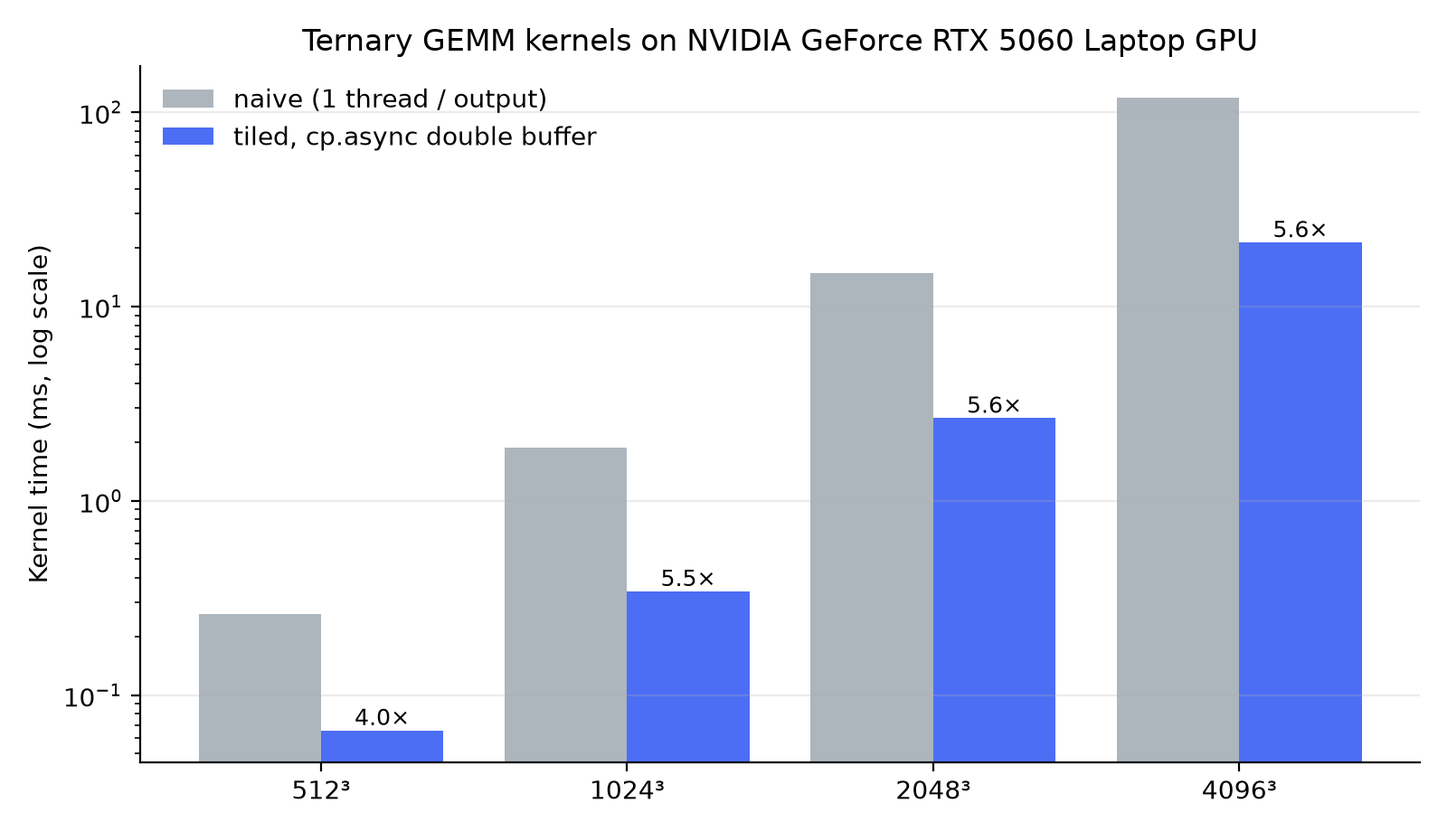
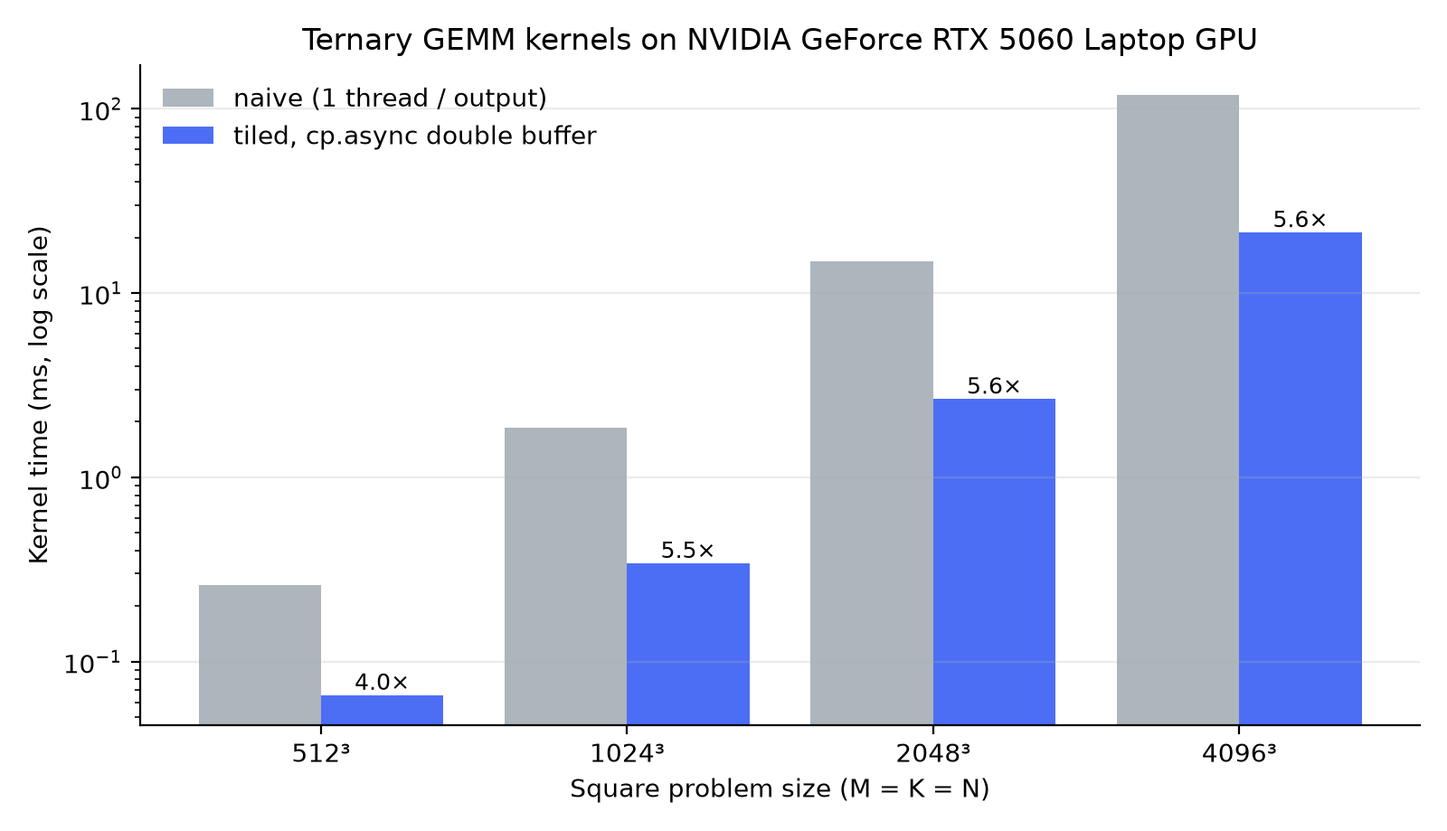
docs: refresh README structure and regenerate benchmark charts

diff --git a/scripts/plot_results.py b/scripts/plot_results.py
@@ -64,7 +64,8 @@ def plot_cpu(table, out_png):
     ax.set_xlabel("Square problem size (M = K = N)")
     ax.set_ylabel("Effective throughput (G ternary-MAC ops/s, 2 ops per MAC)")
     ax.set_title("Ternary GEMM on one CPU thread (int8 activations, 2-bit weights)")
-    ax.legend(frameon=False, fontsize=8)
+    ax.set_ylim(0, ax.get_ylim()[1] * 1.3)
+    ax.legend(frameon=False, fontsize=8, loc="upper left", ncol=2)
     ax.grid(axis="y", alpha=0.25)
     ax.spines[["top", "right"]].set_visible(False)
     fig.tight_layout()
@@ -84,6 +85,7 @@ def plot_gpu(gpu, out_png):
     ax.set_yscale("log")
     ax.set_xticks(list(xs))
     ax.set_xticklabels([f"{n}³" for n in ns])
+    ax.set_xlabel("Square problem size (M = K = N)")
     ax.set_ylabel("Kernel time (ms, log scale)")
     ax.set_title(f"Ternary GEMM kernels on {gpu['device']}")
     ax.legend(frameon=False)

diff --git a/README.md b/README.md
@@ -1,6 +1,6 @@
 # TernixEngine
 **A SIMD-native kernel library for 1.58-bit (ternary) LLM inference: AVX2 on CPU, `cp.async`-pipelined CUDA on GPU**
-*Distributed under the Elastic License 2.0 (see [License](#13-license)).*
+*Distributed under the Elastic License 2.0 (see [License](#15-license)).*
 
 ![C++20](https://img.shields.io/badge/C%2B%2B-20-blue) ![CUDA](https://img.shields.io/badge/CUDA-sm__80%2B-green) ![AVX2](https://img.shields.io/badge/SIMD-AVX2-orange) ![Python](https://img.shields.io/badge/Python-PyBind11-yellow)
 
@@ -13,37 +13,44 @@ The kernels in this repository answer that question in three ways:
 * **No weight-dependent control flow.** The ternary value is turned into a sign control and applied with `_mm256_sign_epi32` (CPU) or with arithmetic selects (GPU), so inner loops contain no `if (w == 0)` branches and do not diverge.
 * **Bit-exact verification.** Every kernel is checked against an independent integer GEMM on the unpacked weights, from C++ (GoogleTest), from Python (NumPy) and GPU-versus-CPU, over ragged shapes and worst-case values.
 
-> **Status: active research and development.** This is a *kernel library*, not yet an end-to-end LLM runtime. The weight quantizer (`scripts/quantize.py`), the model loader and the transformer block are stubs; there is no tokenizer path and no tokens-per-second figure. [Section 10](#10-current-project-status) states precisely what works and what does not. Performance numbers are measured against in-repo baselines only; the library has not yet been compared head-to-head with other ternary engines such as bitnet.cpp or T-MAC ([Section 11](#11-limitations-and-future-work)).
+> [!NOTE]
+> **Status: active research and development.** This is a *kernel library*, not yet an end-to-end LLM runtime. The weight quantizer (`scripts/quantize.py`), the model loader and the transformer block are stubs; there is no tokenizer path and no tokens-per-second figure. [Section 10](#10-implementation-status) states precisely what works and what does not. Performance numbers are measured against in-repo baselines only; the library has not yet been compared head-to-head with other ternary engines such as bitnet.cpp or T-MAC ([Section 11](#11-limitations-and-research-roadmap)).
 
 ## Table of Contents
-1. [The Bottleneck: the De-Quantization Wall and Warp Divergence](#1-the-bottleneck-the-de-quantization-wall-and-warp-divergence)
-2. [Architectural Methodology](#2-architectural-methodology)
-3. [Conceptual Overview](#3-conceptual-overview)
-4. [System Architecture](#4-system-architecture)
-5. [Directory Structure](#5-directory-structure)
-6. [Technology Stack](#6-technology-stack)
-7. [DevOps and Testing](#7-devops-and-testing)
-8. [Environment Setup and Execution](#8-environment-setup-and-execution)
-9. [Empirical Benchmarks and Evaluation](#9-empirical-benchmarks-and-evaluation)
-10. [Current Project Status](#10-current-project-status)
-11. [Limitations and Future Work](#11-limitations-and-future-work)
-12. [Troubleshooting](#12-troubleshooting)
-13. [License](#13-license)
-14. [Project Referencing Guide](#14-project-referencing-guide)
-15. [Support and Maintenance](#15-support-and-maintenance)
-16. [Contribution Policy](#16-contribution-policy)
 
-## 1. The Bottleneck: the De-Quantization Wall and Warp Divergence
+1. [Problem Statement: The De-Quantization Wall and Warp Divergence](#1-problem-statement-the-de-quantization-wall-and-warp-divergence)
+2. [Ternary Inference in Plain Terms](#2-ternary-inference-in-plain-terms)
+3. [Kernel Design and Methodology](#3-kernel-design-and-methodology)
+4. [Software Architecture and Data Flow](#4-software-architecture-and-data-flow)
+5. [Repository Layout](#5-repository-layout)
+6. [Technology Stack](#6-technology-stack)
+7. [Build, Run and Python Usage](#7-build-run-and-python-usage)
+8. [Testing, Continuous Integration and Build Automation](#8-testing-continuous-integration-and-build-automation)
+9. [Performance Evaluation](#9-performance-evaluation)
+10. [Implementation Status](#10-implementation-status)
+11. [Limitations and Research Roadmap](#11-limitations-and-research-roadmap)
+12. [Troubleshooting](#12-troubleshooting)
+13. [Support and Maintenance](#13-support-and-maintenance)
+14. [Contributing](#14-contributing)
+15. [License](#15-license)
+16. [Citation](#16-citation)
+
+## 1. Problem Statement: The De-Quantization Wall and Warp Divergence
 Engines that execute sub-byte quantized LLMs commonly run into three hardware-level problems, and ternary weights make each of them easy to trigger.
 
 1. **The de-quantization wall.** The straightforward implementation expands 2-bit weights into int8 or FP16 arrays before the GEMM loop. The expanded array is 4x to 8x larger than the packed one, so the loop re-reads far more data than the compression saved, saturates L1 bandwidth and leaves the arithmetic units idle. Compression only pays off if the weights stay packed until the moment they are consumed.
 2. **Sparse-branch misprediction.** Ternary matrices contain many zeros, and the natural way to exploit that is `if (w == 0) continue;`. The pattern of zeros is data-dependent and effectively random, so the branch predictor fails, the pipeline flushes, and the cost of the mispredictions can exceed the arithmetic that was skipped. Zero must be handled arithmetically (multiply by a sign mask), not by control flow.
 3. **GPU transaction and divergence problems.** Reading sub-byte values directly from global memory produces unaligned, narrow loads that break coalescing; lanes that branch on their own weight diverge within a warp. Both lower SM utilisation. The fix is to move whole tiles with wide, aligned, asynchronous copies and decode only after the data is on-chip.
 
-## 2. Architectural Methodology
-The design draws on four lines of work on low-bit LLM inference (BitNet / BitNet b1.58, T-MAC, QuIP#, MARLIN; the papers are kept under `references/`, and `docs/RESEARCH_SYNTHESIS.md` records what was taken from each). What follows describes what is *implemented*; ideas from those papers that are not yet implemented are listed in [Section 11](#11-limitations-and-future-work).
+## 2. Ternary Inference in Plain Terms
+*For readers who are not kernel engineers.* A neural network is mostly a very large number of multiplications between numbers it has learned (weights) and numbers flowing through it (activations). "Ternary" models are trained so that every weight is only -1, 0 or +1. The multiplication then reduces to "add this number, subtract it, or ignore it", which is far cheaper than a floating-point multiply and needs about an eighth of the memory for the weights. For language-model inference the memory traffic is usually the limiting factor, so this matters: a model that is small and cheap to run can fit on a laptop CPU or a modest GPU.
 
-### 2.1 Weight format
+The catch is that standard hardware and standard software are built for multiplication of wider numbers, and the obvious way to run a ternary model (convert it back to wider numbers) erases the savings. TernixEngine is a set of low-level routines that keep the data in its small packed form until the instant it is used, and that avoid the branching logic that modern processors handle badly. It is currently a verified, benchmarked set of building blocks; turning them into a complete model runner is the next stage of the project.
+
+## 3. Kernel Design and Methodology
+The design draws on four lines of work on low-bit LLM inference (BitNet / BitNet b1.58, T-MAC, QuIP#, MARLIN; the papers are kept under `references/`, and `docs/RESEARCH_SYNTHESIS.md` records what was taken from each). What follows describes what is *implemented*; ideas from those papers that are not yet implemented are listed in [Section 11](#11-limitations-and-research-roadmap).
+
+### 3.1 Weight format
 All kernels compute `C[M,N] (int32) = A[M,K] (int8) x W[K,N]`, where `W` is ternary. Weights are packed four per byte, little-endian along N, into a row-major `K x (N/4)` byte array. Each weight occupies a two-bit field:
 
 | bits | `00` | `01` | `11` |
@@ -52,32 +59,29 @@ All kernels compute `C[M,N] (int32) = A[M,K] (int8) x W[K,N]`, where `W` is tern
 
 `10` is never produced by the packer (`pack_ternary_weights`) and is outside the supported domain. The encoding is chosen so that the value is recovered by *sign-extending the two-bit field* (`11` sign-extends to -1, `01` stays +1), which is a shift-left/arithmetic-shift-right pair rather than a table lookup or a compare. The same layout feeds every CPU and GPU kernel, which is what makes cross-checking them against each other meaningful. `bitpack.cpp` provides pack/unpack and the round trip is tested.
 
-### 2.2 CPU kernels (AVX2)
+### 3.2 CPU kernels (AVX2)
 * **Reference and baselines.** `mul_mat_ternary_naive` is the textbook i-j-k loop with a branching decode; it walks down a column of `W` and is deliberately cache-hostile. `mul_mat_ternary_scalar` is the fair scalar baseline: i-k-j order and a branch-free decode, `w = (b & 1) - (b & 2)`. Speed-ups are quoted against the scalar kernel as well as the naive one.
 * **In-register decode (`mul_mat_ternary_avx2`).** For each activation scalar `a[i,k]`, the packed weight byte(s) covering eight output columns are broadcast into a 256-bit register. `_mm256_srlv_epi32` with the per-lane shift vector (0, 2, ..., 14) moves a different weight into the low bits of each 32-bit lane, `_mm256_and_si256` masks the field, and `slli`/`srai` by 30 sign-extends it into a lane value of -1, 0 or +1. `_mm256_sign_epi32(a_broadcast, w)` then yields `-a`, `0` or `+a` in one instruction, with no branch and no multiply, and `_mm256_add_epi32` accumulates. The loop nest is M, K, N with N tiled by eight, so the eight int32 accumulators stay in one register for the whole K loop.
 * **Register blocking (`mul_mat_ternary_avx2_blocked`).** Decoding the weights is as expensive as using them, so the blocked variant processes four activation rows per pass: each decoded weight vector is applied to four accumulators before the next weight is loaded, amortising the decode cost by 4x. Rows that do not fill a block fall through to the one-row kernel.
 * **Auxiliary operators.** `rms_norm_avx2` is a real AVX2+FMA implementation (tested against the scalar version for sizes that are not multiples of eight); `swiglu` is scalar.
 * **Safety properties.** Loads use `memcpy` (no unaligned-access UB); int32 accumulation cannot overflow for int8 activations with K up to a stated bound (a K = 4096 worst-case test covers it).
 
-### 2.3 GPU kernels (CUDA)
+### 3.3 GPU kernels (CUDA)
 * **Baseline (`mul_mat_ternary_cuda_naive`).** One thread per output element, straight from global memory. It exists to give the optimised kernel something honest to be measured against.
 * **Tiled kernel (`mul_mat_ternary_cuda_tiled`).** The tile is 64x64x64 with 256 threads (a 16x16 arrangement), and each thread owns a 4x4 micro-tile of outputs, so one packed weight byte covers exactly the four columns a thread computes. Tiles are moved global-to-shared with `cp.async.cg` in 16-byte copies through a **two-stage pipeline**: while the threads do arithmetic on tile *t*, the copies for tile *t+1* are already in flight, and `cp.async.wait_group 1` blocks only on the older group. The int8 activation tile uses a padded row pitch (80 bytes instead of 64) so that the threads of a warp reading different rows do not hit the same shared-memory bank. The kernel requires M, N and K to be multiples of 64 and validates the shapes on the host.
 * **Hardware requirement.** `cp.async` needs compute capability 8.0 or newer; the build defaults to the native architecture and falls back to sm_80.
 
-### 2.4 Correctness model
+### 3.4 Correctness model
 The unit of truth is a deliberately simple integer GEMM on the *unpacked* int8 weights, written independently of every kernel. All kernels, CPU and GPU, must match it exactly (integer arithmetic, so equality, not a tolerance), including ragged shapes, rows that do not fill a block, and int8-extreme inputs that would expose accumulator overflow.
 
-## 3. Conceptual Overview
-*For readers who are not kernel engineers.* A neural network is mostly a very large number of multiplications between numbers it has learned (weights) and numbers flowing through it (activations). "Ternary" models are trained so that every weight is only -1, 0 or +1. The multiplication then reduces to "add this number, subtract it, or ignore it", which is far cheaper than a floating-point multiply and needs about an eighth of the memory for the weights. For language-model inference the memory traffic is usually the limiting factor, so this matters: a model that is small and cheap to run can fit on a laptop CPU or a modest GPU.
+## 4. Software Architecture and Data Flow
+<div align="center">
+  <img src="docs/assets/ternix-architecture.png" alt="TernixEngine architecture: Python and C++ entry points, shared packed-weight layout, CPU AVX2 and CUDA kernels, test and benchmark harnesses" width="100%" />
+</div>
 
-The catch is that standard hardware and standard software are built for multiplication of wider numbers, and the obvious way to run a ternary model (convert it back to wider numbers) erases the savings. TernixEngine is a set of low-level routines that keep the data in its small packed form until the instant it is used, and that avoid the branching logic that modern processors handle badly. It is currently a verified, benchmarked set of building blocks; turning them into a complete model runner is the next stage of the project.
+The Python module `ternix_engine` (PyBind11) packs NumPy weights and dispatches to any CPU or CUDA kernel by name; the C++ core exposes the same kernels to the GoogleTest suites and to the Google Benchmark and CUDA-event benchmark harnesses. All paths use the single weight layout described in [Section 3.1](#31-weight-format), so a result produced by one kernel can be reproduced by any other. `Model` and `TransformerLayer` are placeholders for the future end-to-end path and are not exercised by any test or benchmark.
 
-## 4. System Architecture
-![TernixEngine architecture](docs/assets/ternix-architecture.png)
-
-The Python module `ternix_engine` (PyBind11) packs NumPy weights and dispatches to any CPU or CUDA kernel by name; the C++ core exposes the same kernels to the GoogleTest suites and to the Google Benchmark and CUDA-event benchmark harnesses. All paths use the single weight layout described in [Section 2.1](#21-weight-format), so a result produced by one kernel can be reproduced by any other. `Model` and `TransformerLayer` are placeholders for the future end-to-end path and are not exercised by any test or benchmark.
-
-## 5. Directory Structure
+## 5. Repository Layout
 ```text
 TernixEngine/
 ├── include/ternix/            # Public headers
@@ -110,17 +114,7 @@ TernixEngine/
 * **CMake** (>= 3.20) with Ninja; dependencies (Google Benchmark, GoogleTest, PyBind11) fetched with `FetchContent`.
 * **GoogleTest, Google Benchmark, pytest, matplotlib** for verification, measurement and reporting.
 
-## 7. DevOps and Testing
-The test strategy is differential: every optimised kernel is compared with an independent, obviously correct implementation, and the comparison is exact.
-
-* **C++ (`ternix_tests`):** every CPU kernel against an independent integer GEMM on unpacked weights over ragged shapes (M not a multiple of the row block, K not a multiple of eight), plus an int8-extreme case at K = 4096 that would expose accumulator overflow; pack/unpack round trip; RMSNorm AVX2 versus scalar across sizes; SwiGLU known values.
-* **CUDA (`ternix_cuda_tests`):** both GPU kernels against the CPU reference, bit-exact, including a 64x4096x64 case that exercises many pipeline iterations; the host wrapper's rejection of unsupported shapes.
-* **Python (`tests/test_python_binding.py`):** all CPU and CUDA implementations against NumPy `int32` matmul on random ternary data (parametrised over implementations), and input validation (wrong dimensionality or shape raises `ValueError`).
-* **CI (`.github/workflows/ci.yml`):** a Linux (GCC) job and a Windows (MSVC) job each build, run all CPU tests and the binding tests, and execute a benchmark smoke run; a CUDA container job compiles the GPU code for sm_80, 86, 89 and 90. Hosted runners have no GPU, so GPU *execution* is verified locally, and the README says so rather than implying otherwise.
-
-Run the suites with `ctest --output-on-failure` from the build directory, or let `run_all` do it.
-
-## 8. Environment Setup and Execution
+## 7. Build, Run and Python Usage
 
 ### System requirements
 **Hardware:** an x86-64 CPU with AVX2 and FMA (Intel Haswell / AMD Zen or newer). Optional: an NVIDIA GPU with compute capability 8.0 or newer (Ampere onward) to run the CUDA kernels and tests. 16 GB of RAM is comfortable.
@@ -128,7 +122,7 @@ Run the suites with `ctest --output-on-failure` from the build directory, or let
 **Software:** a C++20 compiler (MSVC from Visual Studio 2022/2026 Build Tools, GCC 11+, or Clang), CMake 3.20+, Ninja (recommended), Python 3.9+ with NumPy and matplotlib, Git (CMake downloads the dependencies), and optionally the CUDA toolkit with `nvcc` on `PATH`. Linux, WSL2 and Windows are supported.
 
 ### Automated pipeline
-`run_all` configures, builds, runs the C++ and Python tests, runs the benchmarks (median of five repetitions, pinned to one core via `TERNIX_BENCH_CPU`), and regenerates the charts and the tables in [Section 9](#9-empirical-benchmarks-and-evaluation).
+`run_all` configures, builds, runs the C++ and Python tests, runs the benchmarks (median of five repetitions, pinned to one core via `TERNIX_BENCH_CPU`), and regenerates the charts and the tables in [Section 9](#9-performance-evaluation).
 
 ```bash
 # Linux / WSL
@@ -149,7 +143,17 @@ c = tx.ternary_matmul(a, tx.pack_ternary(w), impl="avx2_blocked")
 assert (c == a.astype(np.int32) @ w.astype(np.int32)).all()
 ```
 
-## 9. Empirical Benchmarks and Evaluation
+## 8. Testing, Continuous Integration and Build Automation
+The test strategy is differential: every optimised kernel is compared with an independent, obviously correct implementation, and the comparison is exact.
+
+* **C++ (`ternix_tests`):** every CPU kernel against an independent integer GEMM on unpacked weights over ragged shapes (M not a multiple of the row block, K not a multiple of eight), plus an int8-extreme case at K = 4096 that would expose accumulator overflow; pack/unpack round trip; RMSNorm AVX2 versus scalar across sizes; SwiGLU known values.
+* **CUDA (`ternix_cuda_tests`):** both GPU kernels against the CPU reference, bit-exact, including a 64x4096x64 case that exercises many pipeline iterations; the host wrapper's rejection of unsupported shapes.
+* **Python (`tests/test_python_binding.py`):** all CPU and CUDA implementations against NumPy `int32` matmul on random ternary data (parametrised over implementations), and input validation (wrong dimensionality or shape raises `ValueError`).
+* **CI (`.github/workflows/ci.yml`):** a Linux (GCC) job and a Windows (MSVC) job each build, run all CPU tests and the binding tests, and execute a benchmark smoke run; a CUDA container job compiles the GPU code for sm_80, 86, 89 and 90. Hosted runners have no GPU, so GPU *execution* is verified locally, and the README says so rather than implying otherwise.
+
+Run the suites with `ctest --output-on-failure` from the build directory, or let `run_all` do it.
+
+## 9. Performance Evaluation
 *Testbed: Intel Core i7-14650HX (single thread, pinned to a P-core), NVIDIA GeForce RTX 5060 Laptop GPU (sm_120), MSVC 19.5, CUDA 13.3. The tables below are regenerated by `run_all` from `benchmarks/*.json`; none of the numbers is hand-entered.*
 
 ### Method
@@ -167,7 +171,9 @@ CPU: 24 logical cores, one thread, release build. Seeded random int8 activations
 | AVX2, 4-row register blocking | 0.13 | 1.07 | 8.54 | 31.43 | 52.1× |
 <!-- BENCH_CPU_END -->
 
-![CPU benchmark](benchmarks/benchmark_results.png)
+<div align="center">
+  <img src="benchmarks/benchmark_results.png" alt="CPU benchmark results for the naive, scalar, AVX2 and blocked AVX2 kernels" width="85%" />
+</div>
 
 ### GPU
 <!-- BENCH_GPU_START -->
@@ -181,14 +187,16 @@ GPU: NVIDIA GeForce RTX 5060 Laptop GPU (sm_120). CUDA-event kernel time, data r
 | 4096³ | 118.893 | 21.280 | 5.6× | 6.46 |
 <!-- BENCH_GPU_END -->
 
-![GPU benchmark](benchmarks/benchmark_cuda.png)
+<div align="center">
+  <img src="benchmarks/benchmark_cuda.png" alt="GPU benchmark results for the naive and tiled CUDA kernels" width="85%" />
+</div>
 
 ### Interpretation
 * **What the CPU numbers show.** Relative to the fair scalar baseline, the AVX2 kernel is about 6x faster and the register-blocked kernel about 10x faster at 512³. The jump from one-row to four-row blocking is a 1.7x gain from a single idea, decoding once and using the result four times, which confirms that decode cost, not accumulation, is the bottleneck on this path. The 52x figure against the naive loop mixes the SIMD gain with the cache behaviour of its loop order; the scalar row is the honest comparison.
 * **What the GPU numbers show.** The tiled kernel is 4.0x to 5.6x faster than the naive GPU kernel and its throughput plateaus at about 6.5 effective TOPS from 1024³ upward, which is the signature of a compute-bound regime on CUDA cores. The speed-up grows with size because the one-time pipeline fill and launch costs amortise.
 * **What they do not show.** "Effective TOPS" counts two operations per ternary multiply-accumulate and is not a tensor-core peak; the kernel uses CUDA cores. It has **not** been compared with cuBLAS/cuBLASLt int8, nor with other ternary runtimes. Do not read these figures as evidence of being faster than existing libraries; they establish a verified, reproducible baseline.
 
-## 10. Current Project Status
+## 10. Implementation Status
 TernixEngine is a verified kernel library with scaffolding for a future runtime.
 
 ### Working and verified
@@ -205,7 +213,7 @@ TernixEngine is a verified kernel library with scaffolding for a future runtime.
 * `interleave_weights_offline` is an identity copy. The layout is plain row-major packing along N, not the offline interleaving or lookup-table scheme of T-MAC.
 * The GPU kernel does not use tensor cores and has not been compared with vendor int8 GEMM.
 
-## 11. Limitations and Future Work
+## 11. Limitations and Research Roadmap
 1. **End-to-end path (highest priority).** A quantizer that converts a published ternary checkpoint (BitNet b1.58 2B4T and the open ternary Bonsai models are natural targets), a model loader, a BitNet block (attention plus SwiGLU feed-forward), a KV cache, and a perplexity check against the reference implementation. Only then is a tokens-per-second figure meaningful.
 2. **Comparison with prior art.** Head-to-head measurements on one machine against bitnet.cpp (I2_S and the TL1/TL2 lookup-table kernels), T-MAC and llama.cpp's ternary types on CPU, and against BitBLAS and cuBLAS on GPU, with the same model, prompts, threads and pinning. Until this exists, the claims in this repository are limited to correctness and to speed-ups over its own baselines.
 3. **CPU.** An AVX-512 VNNI variant (`_mm512_dpbusd_epi32`); multi-threading over M (OpenMP is already linked); lookup-table kernels in the style of T-MAC and QuIP# codebooks; offline weight interleaving.
@@ -225,7 +233,12 @@ TernixEngine is a verified kernel library with scaffolding for a future runtime.
 * **C2719 (MSVC).** Pass `__m256i` arguments by reference or pointer; MSVC rejects aligned types passed by value in some configurations.
 * **Pipeline scripts.** The pipeline uses `.bat` (Windows) and `.sh` (Linux/WSL) files; the MSVC Native Tools prompt is built on `cmd.exe`, so PowerShell scripts are not used.
 
-## 13. License
+## 13. Support and Maintenance
+Bug reports, feature requests and performance discussions belong in the issue tracker. For performance deviations please include your CPU/GPU model, compiler and CUDA versions, whether the benchmark was pinned, and the contents of `build/CMakeCache.txt`.
+
+## 14. Contributing
+Contributions are welcome under the Elastic License 2.0; see `CONTRIBUTING.md`. A new kernel must come with a differential test against the reference GEMM (ragged shapes included) in `tests/`, and the benchmark and README tables must be regenerated with `run_all` rather than edited by hand. Claims of speed-up over other libraries should include the comparison method (same model, hardware, threading and pinning).
+## 15. License
 This project is distributed under the **Elastic License 2.0**.
 
 * You may view, use and modify the code, and share it with attribution.
@@ -234,7 +247,7 @@ This project is distributed under the **Elastic License 2.0**.
 
 See `LICENSE` for the full text. The software is provided as-is, without warranty.
 
-## 14. Project Referencing Guide
+## 16. Citation
 If you use TernixEngine in academic or production work, please cite it as:
 
 ```bibtex
@@ -246,8 +259,3 @@ If you use TernixEngine in academic or production work, please cite it as:
 }
 ```
 
-## 15. Support and Maintenance
-Bug reports, feature requests and performance discussions belong in the issue tracker. For performance deviations please include your CPU/GPU model, compiler and CUDA versions, whether the benchmark was pinned, and the contents of `build/CMakeCache.txt`.
-
-## 16. Contribution Policy
-Contributions are welcome under the Elastic License 2.0; see `CONTRIBUTING.md`. A new kernel must come with a differential test against the reference GEMM (ragged shapes included) in `tests/`, and the benchmark and README tables must be regenerated with `run_all` rather than edited by hand. Claims of speed-up over other libraries should include the comparison method (same model, hardware, threading and pinning).
